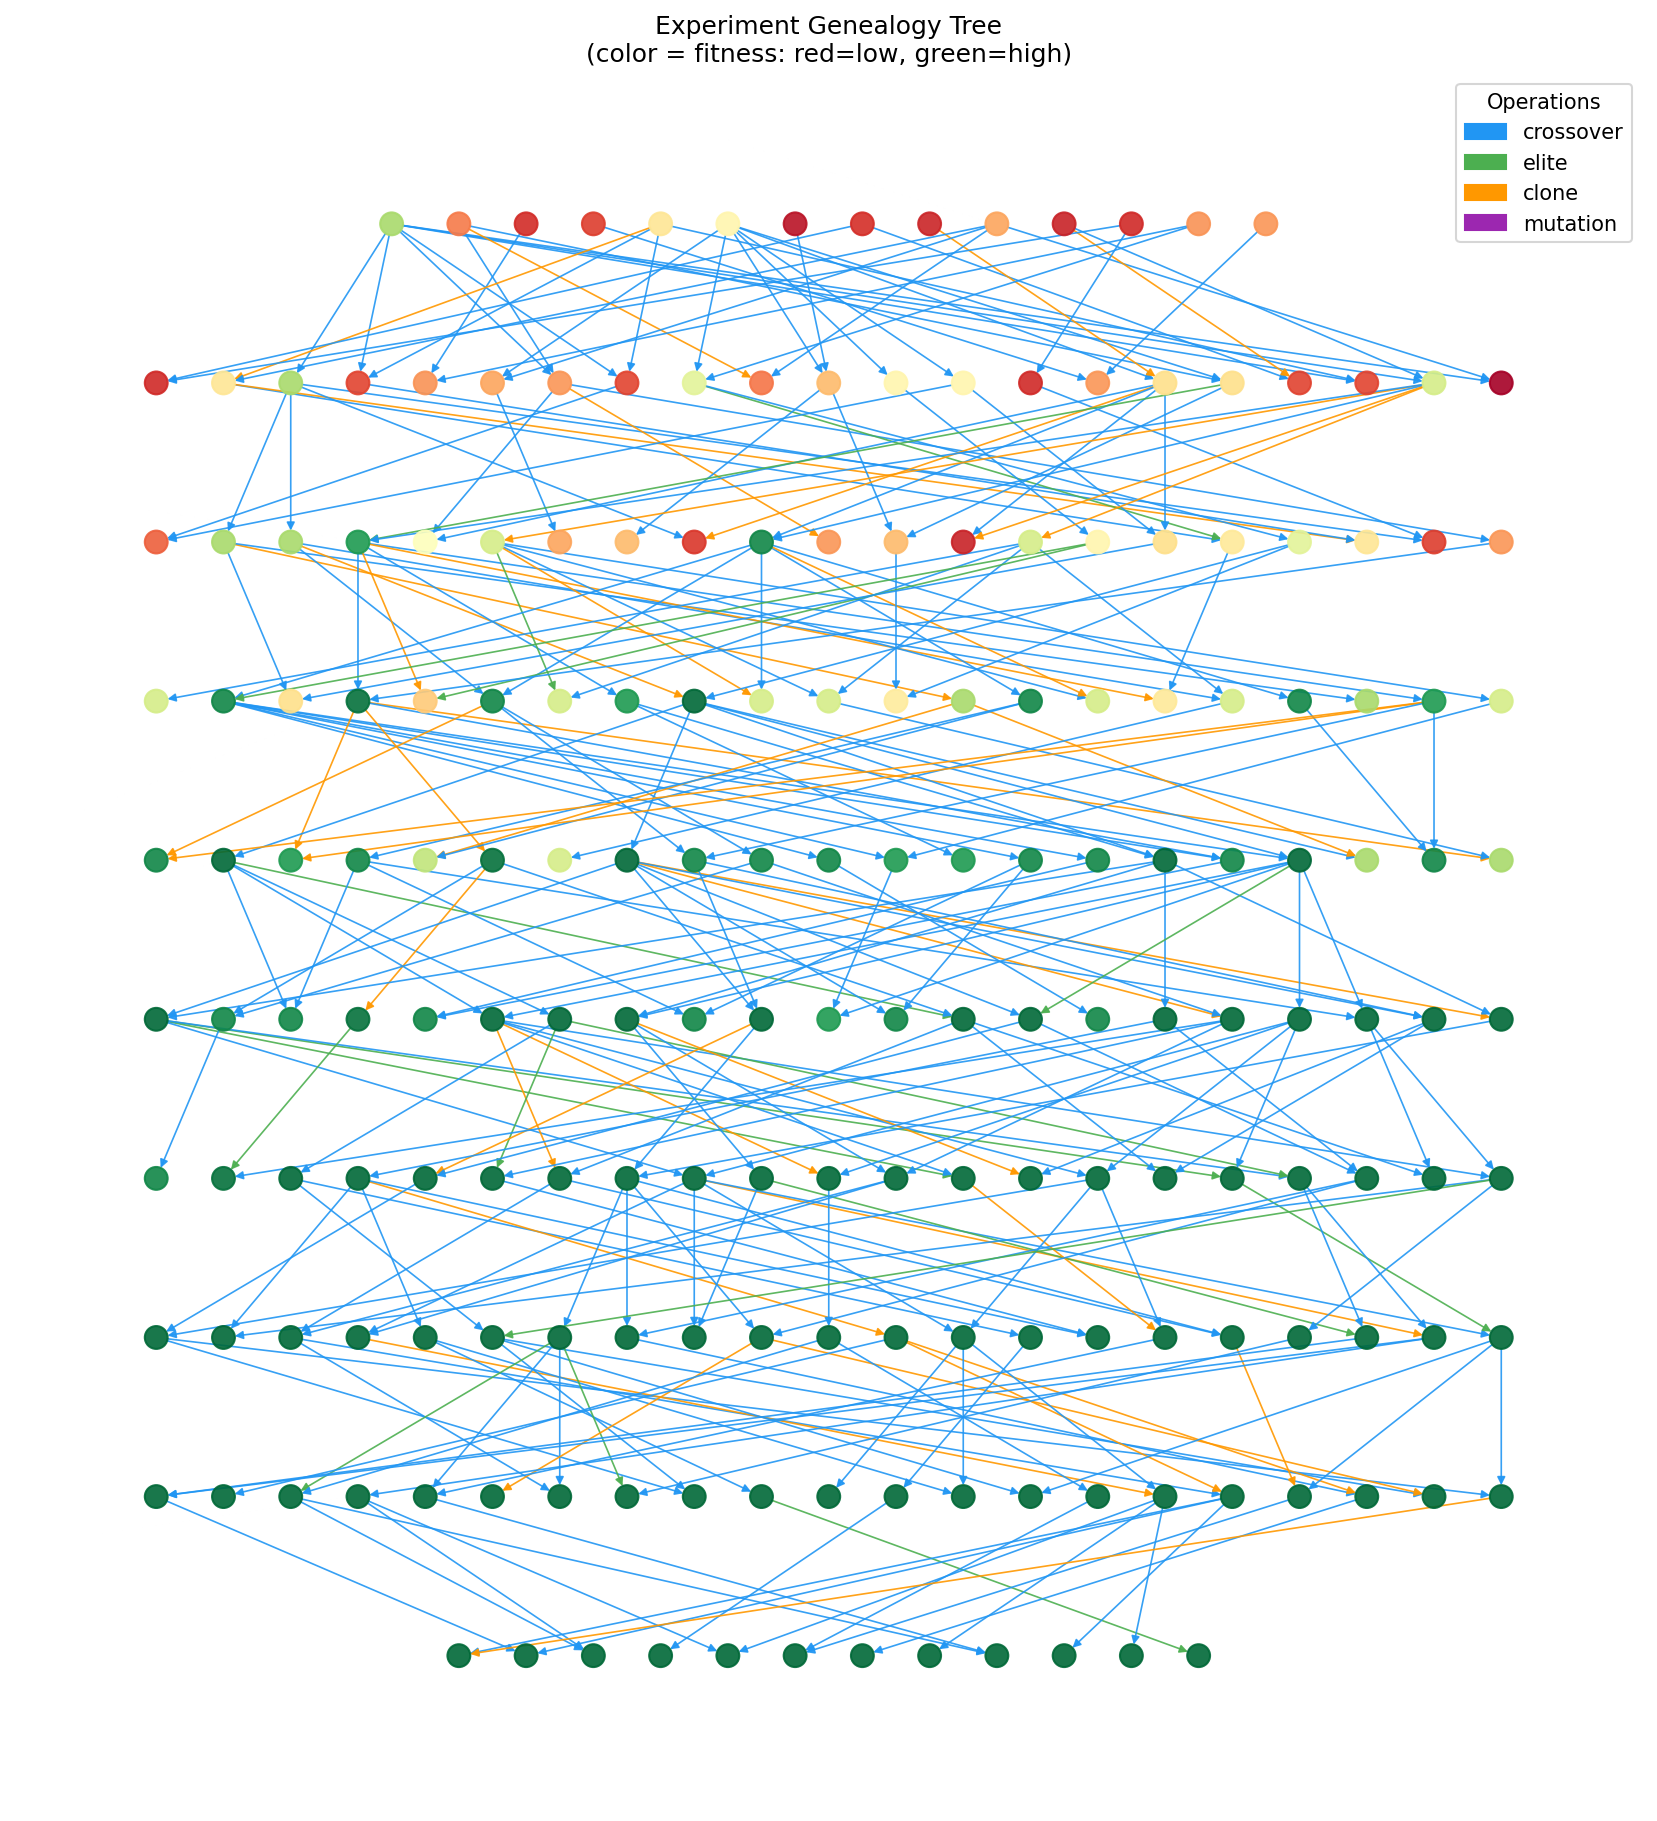
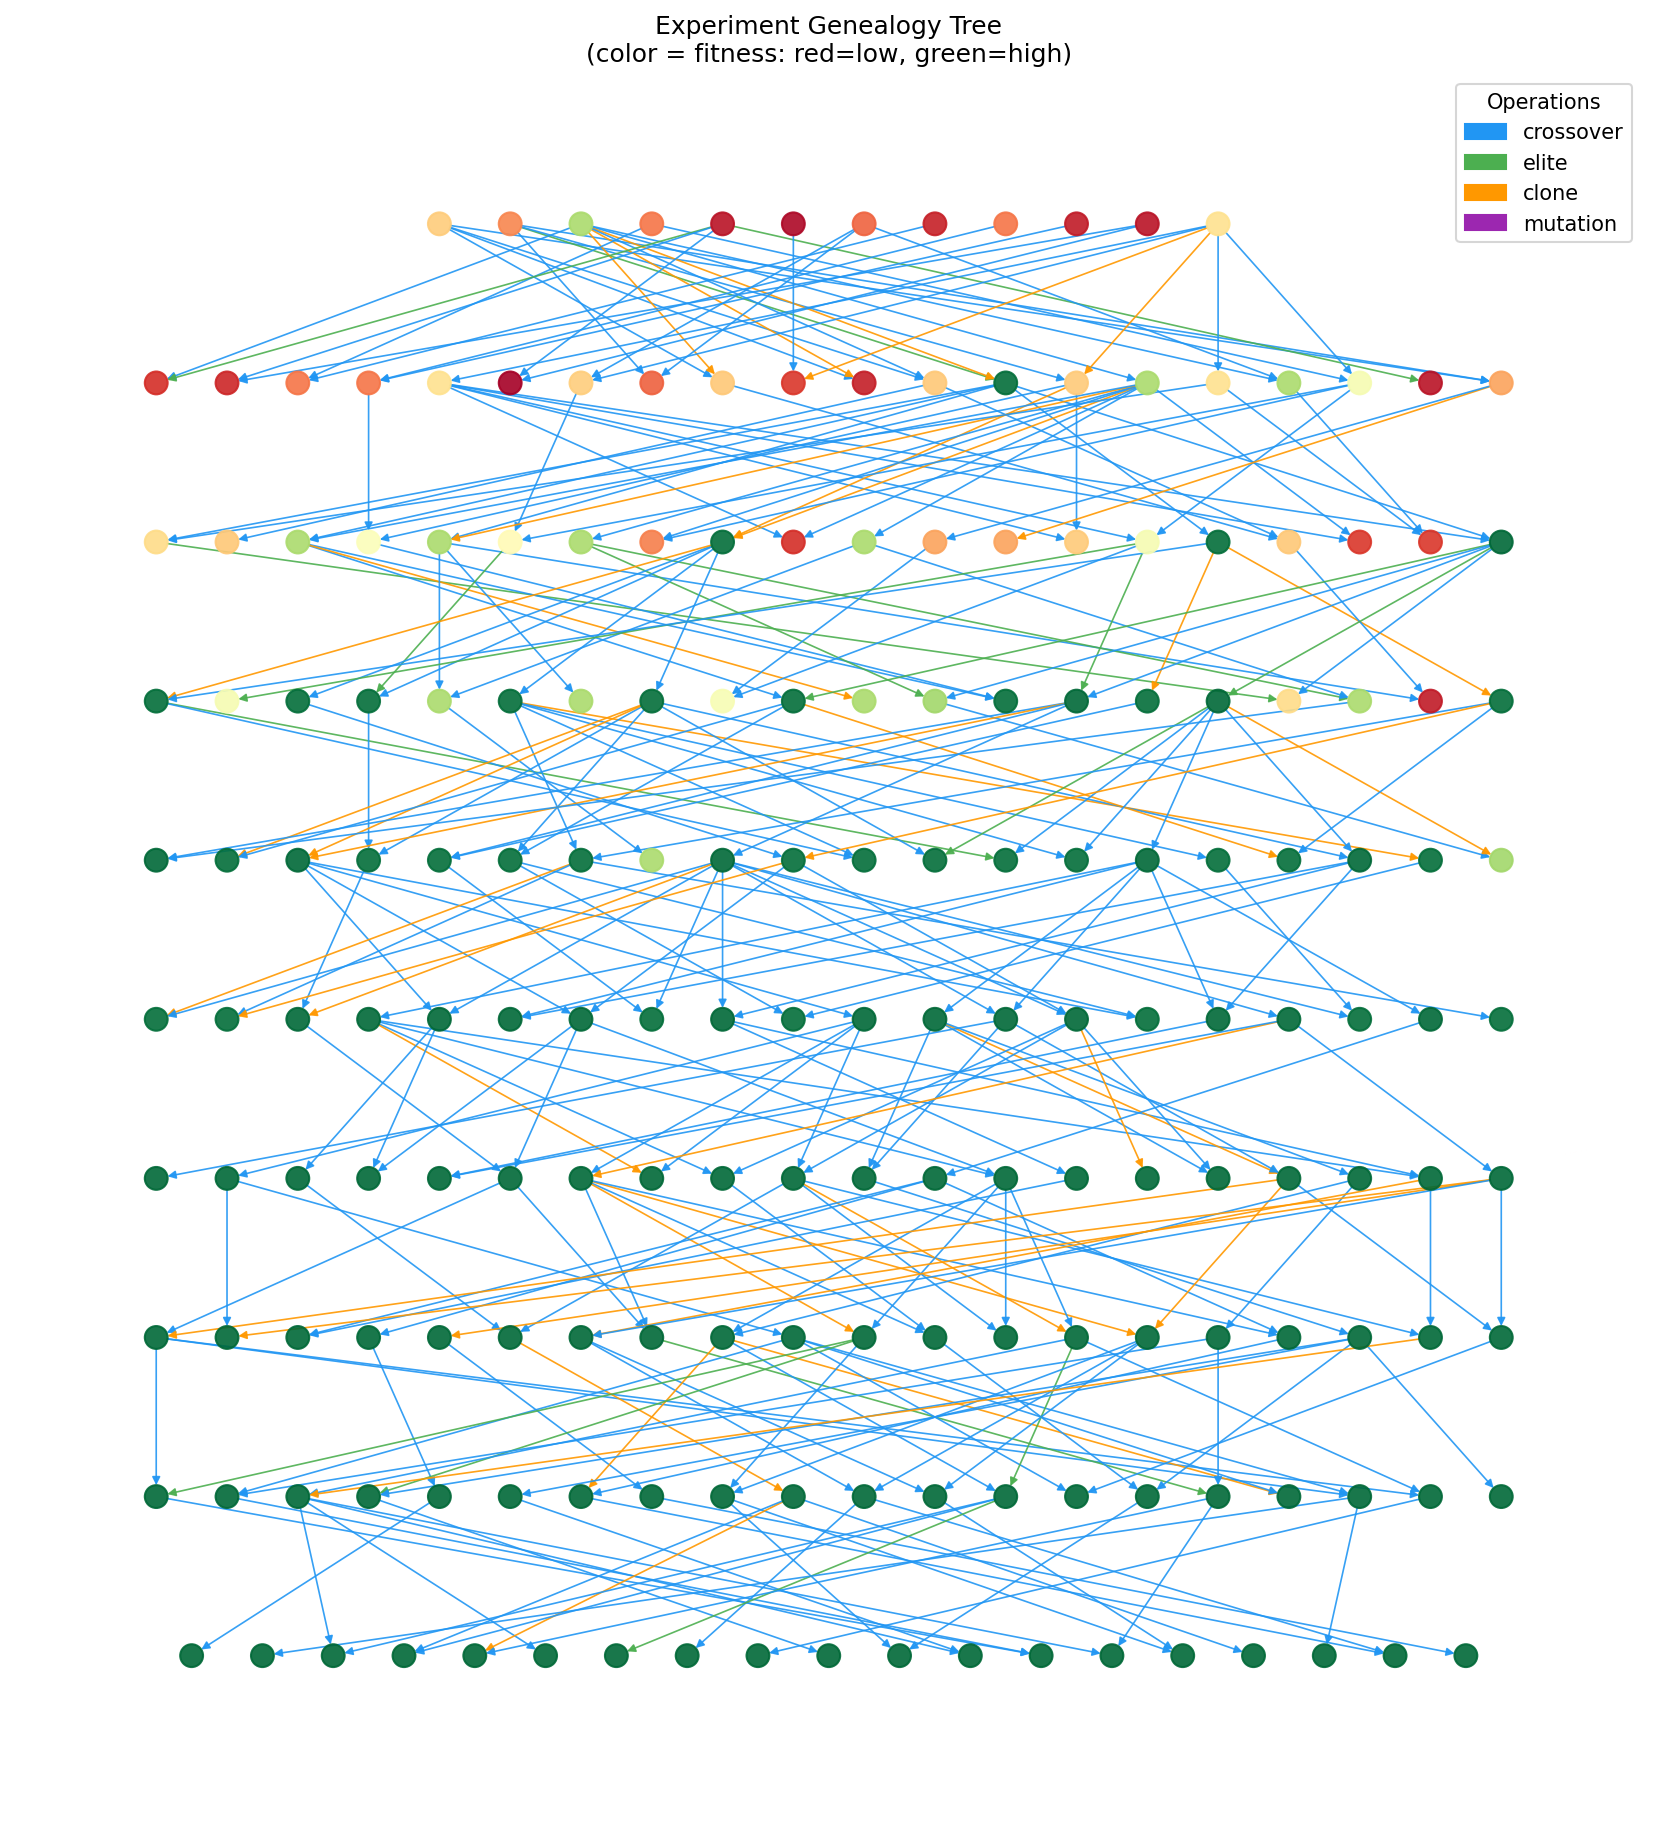
fix: replace blog figures with actual matplotlib charts from autoresearch-lite validation
EED: fitness_progression, genealogy_tree, fitness_components (real evolutionary data)
ECV: experiment_table, cascade_chain, confidence_decay (real confidence scoring)
All figures generated directly from autoresearch-lite results.tsv, not UI screenshots.

Changed region(s): [[0.0923, 0.0923, 0.9234, 0.9226], [0.0923, 0.8918, 0.1231, 0.9226]]

diff --git a/_posts/2026-04-14-autoresearch-infrastructure-experiments.md b/_posts/2026-04-14-autoresearch-infrastructure-experiments.md
@@ -69,13 +69,18 @@ tags:
     <p><strong>Approach:</strong> Treat each experiment result as an <em>individual</em> in an evolutionary population. Define a fitness function over result quality, reproducibility, novelty, and efficiency. Apply tournament selection, crossover, and mutation to propagate good configurations and explore their neighborhood.</p>
 
     <figure>
-        <img src="/assets/images/blog/autoresearch-infra/eed-fitness.png" alt="EED dashboard showing fitness progression and population overview from autoresearch-lite data">
-        <figcaption style="text-align: center;">EED running on autoresearch-lite data: population overview and fitness progression over 15 generations</figcaption>
+        <img src="/assets/images/blog/autoresearch-infra/eed-fitness.png" alt="Fitness progression over 15 evolutionary generations from autoresearch-lite data">
+        <figcaption style="text-align: center;">Fitness progression over 15 generations: best, mean, and min fitness from real autoresearch-lite experiments</figcaption>
     </figure>
 
     <figure>
-        <img src="/assets/images/blog/autoresearch-infra/eed-genealogy-ui.png" alt="Genealogy tree and fitness component breakdown from autoresearch-lite experiments">
-        <figcaption style="text-align: center;">Fitness component breakdown and genealogy tree: nodes colored by fitness (red=low, green=high), edges by operation type</figcaption>
+        <img src="/assets/images/blog/autoresearch-infra/eed-genealogy.png" alt="Genealogy tree showing evolutionary relationships between experiments">
+        <figcaption style="text-align: center;">Genealogy tree: nodes colored by fitness (red=low, green=high), edges by operation type (blue=crossover, green=mutation, gray=elite)</figcaption>
+    </figure>
+
+    <figure>
+        <img src="/assets/images/blog/autoresearch-infra/eed-fitness-components.png" alt="Fitness component breakdown showing quality, reproducibility, novelty, and efficiency scores">
+        <figcaption style="text-align: center;">Fitness component breakdown across the population: quality dominates, but reproducibility and novelty contribute meaningful separation</figcaption>
     </figure>
 
     <p><strong>Validation result:</strong> When fed the 21 autoresearch experiments, the fitness function correctly separated outcomes: keep experiments scored 0.62, discards 0.57, and crashes 0.10. Over 10 generations of evolution, fitness improved by 9.4%. Critically, crossover operated on actual hyperparameters &mdash; combining the learning rate from one experiment with the weight decay from another &mdash; which is a standard and meaningful hyperparameter search strategy. The system even "rediscovered" <code>weight_decay=5e-5</code>, the value that produced the best real result.</p>
@@ -100,8 +105,13 @@ tags:
     </figure>
 
     <figure>
+        <img src="/assets/images/blog/autoresearch-infra/ecv-cascade.png" alt="Cascade chain graph showing experiment dependencies and confidence scores">
+        <figcaption style="text-align: center;">Cascade chain: all 21 experiments with dependency edges, colored by confidence. Red borders indicate gated (blocked) experiments</figcaption>
+    </figure>
+
+    <figure>
         <img src="/assets/images/blog/autoresearch-infra/ecv-gating.png" alt="Confidence decay along keep chain and gating effectiveness metrics">
-        <figcaption style="text-align: center;">Confidence decays along the keep chain (0.61 &rarr; 0.27), crossing below the 0.40 threshold. Gating effectiveness: Recall=1.0 (all crashes caught)</figcaption>
+        <figcaption style="text-align: center;">Confidence decays along the keep chain (0.61 &rarr; 0.27), crossing below the 0.40 threshold</figcaption>
     </figure>
 
     <p><strong>Validation result:</strong> Against the 21 autoresearch experiments, the system correctly ordered confidence scores: keep (0.66) &gt; discard (0.56) &gt; crash (0.22). Both crashes were correctly gated (100% crash detection). In the cascade analysis, the 3-node keep chain (baseline &rarr; epochs increase &rarr; weight decay reduction) showed confidence compounding from 0.61 down to 0.27 &mdash; correctly flagging that accumulated uncertainty makes downstream results less trustworthy.</p>
